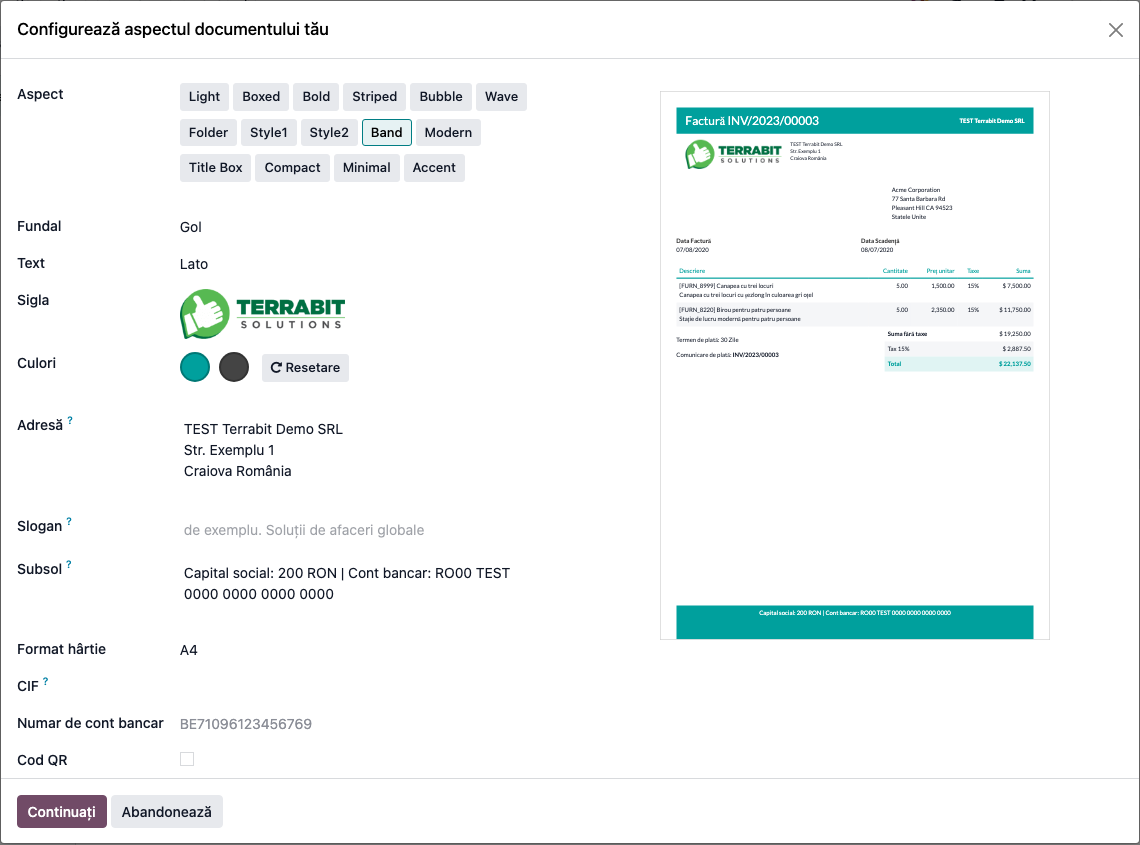
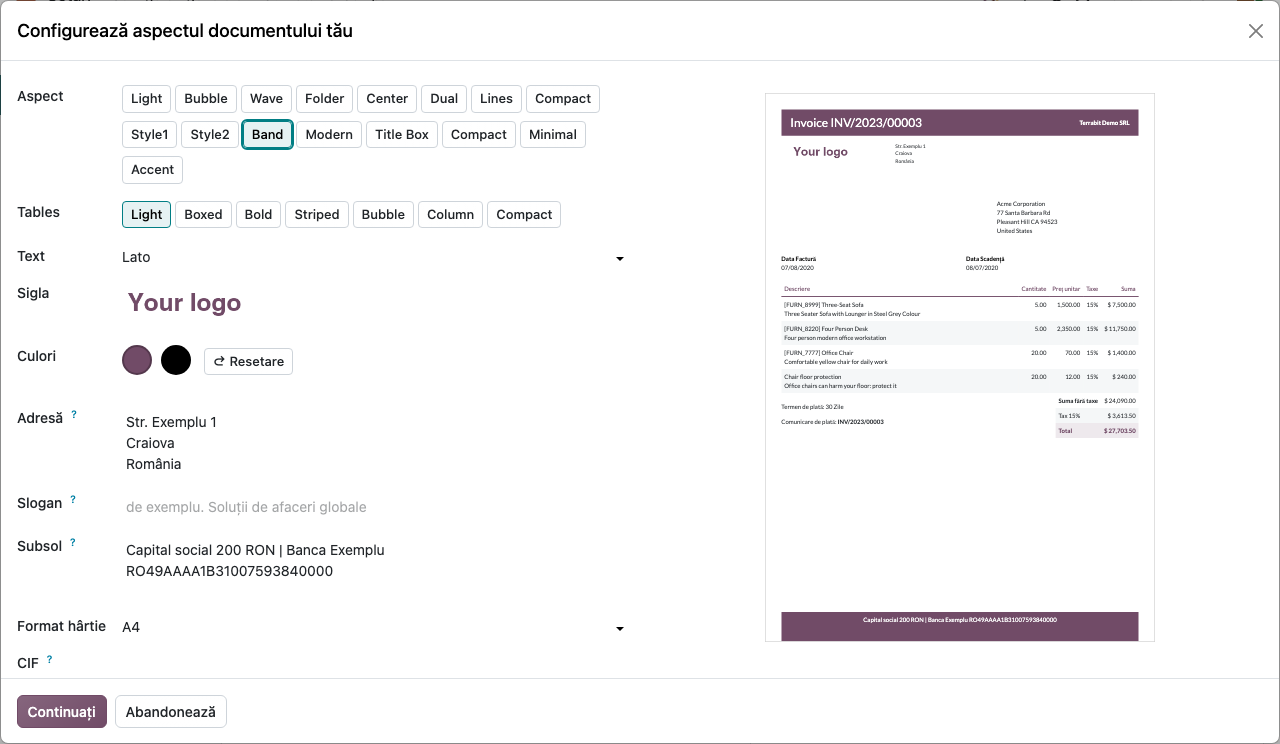
[IMP] deltatech_report_layout: capturile ferestrei de configurare refăcute pe 20.0 (Band, RO/EN)
Assisted-by: Claude Opus 5.5

diff --git a/deltatech_report_layout/static/description/index.html b/deltatech_report_layout/static/description/index.html
@@ -114,12 +114,12 @@ download the zip and load it from <strong>Apps &gt; Import Module</strong>.</p>
 </ol>
 <div class="border rounded-4 shadow-sm my-4" style="background-color:#ffffff;">
   <div class="p-2 rounded-top-4" style="background-color:#f4f8f4;">
-    <img class="img-fluid d-block mx-auto rounded-3" style="max-width:100%;height:auto;" alt="Configure your document layout dialog with Band selected; the invoice preview has the title on a teal band and a teal footer band" src="en/05_macheta_style3.png"/>
+    <img class="img-fluid d-block mx-auto rounded-3" style="max-width:100%;height:auto;" alt="Configure your document layout dialog with Band selected; the invoice preview has the title on a purple band and a purple footer band" src="en/05_macheta_style3.png"/>
   </div>
   <div class="d-flex align-items-center px-3 py-2 border-top">
     <span class="flex-shrink-0 text-center fw-bold rounded-circle d-inline-block me-2"
           style="background-color:#006F42;color:#ffffff;width:26px;height:26px;line-height:26px;font-size:13px;">3</span>
-    <span style="font-size:14px;line-height:1.4;color:#3d4752;">Configure your document layout dialog with Band selected; the invoice preview has the title on a teal band and a teal footer band</span>
+    <span style="font-size:14px;line-height:1.4;color:#3d4752;">Configure your document layout dialog with Band selected; the invoice preview has the title on a purple band and a purple footer band</span>
   </div>
 </div>
 <ol start="5">

diff --git a/deltatech_report_layout/README.rst b/deltatech_report_layout/README.rst
@@ -101,7 +101,8 @@ Usage
    line and the footer is a colored band too.
 
    |Configure your document layout dialog with Band selected; the
-   invoice preview has the title on a teal band and a teal footer band|
+   invoice preview has the title on a purple band and a purple footer
+   band|
 
 5. The other layouts differ in header, footer and table style:
 
@@ -150,7 +151,7 @@ Usage
 
 .. |Configure your document layout dialog with Style1 selected under Layout, next to the standard layouts and the other new layouts, and the invoice preview on the right| image:: https://raw.githubusercontent.com/dhongu/deltatech/20.0/deltatech_report_layout/static/description/en/01_macheta_style1.png
 .. |Configure your document layout dialog with Style2 selected; the table header and the Total row use the primary color| image:: https://raw.githubusercontent.com/dhongu/deltatech/20.0/deltatech_report_layout/static/description/en/02_macheta_style2.png
-.. |Configure your document layout dialog with Band selected; the invoice preview has the title on a teal band and a teal footer band| image:: https://raw.githubusercontent.com/dhongu/deltatech/20.0/deltatech_report_layout/static/description/en/05_macheta_style3.png
+.. |Configure your document layout dialog with Band selected; the invoice preview has the title on a purple band and a purple footer band| image:: https://raw.githubusercontent.com/dhongu/deltatech/20.0/deltatech_report_layout/static/description/en/05_macheta_style3.png
 .. |Invoice preview with Modern: logo on the left, title and company address on the right, teal table header| image:: https://raw.githubusercontent.com/dhongu/deltatech/20.0/deltatech_report_layout/static/description/en/07_document_style4.png
 .. |Invoice preview with Title Box: title in a box between the logo and the company address| image:: https://raw.githubusercontent.com/dhongu/deltatech/20.0/deltatech_report_layout/static/description/en/08_document_style5.png
 .. |Invoice preview with Compact: one-line header, small font and tight margins| image:: https://raw.githubusercontent.com/dhongu/deltatech/20.0/deltatech_report_layout/static/description/en/09_document_style6.png

diff --git a/deltatech_report_layout/readme/FISA_CONSULTANT.md b/deltatech_report_layout/readme/FISA_CONSULTANT.md
@@ -109,7 +109,7 @@ tabelului are linie în culoarea principală, iar rândul **Total** are fundal d
 o bandă colorată. Culoarea benzii se schimbă din **Culori**. Pentru a păstra macheta, apăsați
 **Continuați**; pentru a o încerca doar, apăsați **Abandonează**.
 
-![Fereastra Configurează aspectul documentului tău cu macheta Band selectată, în lista cu toate cele opt machete noi; previzualizarea facturii are titlul Factură INV/2023/00003 pe o bandă teal, rândul Total pe fundal deschis și un subsol tot pe bandă teal cu capitalul social și contul bancar](../static/description/05_macheta_style3.png)
+![Fereastra Configurează aspectul documentului tău cu macheta Band selectată, în lista cu toate cele opt machete noi; previzualizarea facturii are titlul Factură INV/2023/00003 pe o bandă în culoarea principală (mov), rândul Total pe fundal deschis și un subsol tot pe bandă mov cu capitalul social și contul bancar](../static/description/05_macheta_style3.png)
 
 ### Pasul 6 — Documentele cu machetele noi (Band … Accent)
 

diff --git a/deltatech_report_layout/readme/USAGE.md b/deltatech_report_layout/readme/USAGE.md
@@ -17,7 +17,7 @@
 4. Select **Band**: the document title and the company name sit on a full-width band in the
    primary color, the table header has a colored line and the footer is a colored band too.
 
-   ![Configure your document layout dialog with Band selected; the invoice preview has the title on a teal band and a teal footer band](static/description/en/05_macheta_style3.png)
+   ![Configure your document layout dialog with Band selected; the invoice preview has the title on a purple band and a purple footer band](static/description/en/05_macheta_style3.png)
 
 5. The other layouts differ in header, footer and table style:
 
